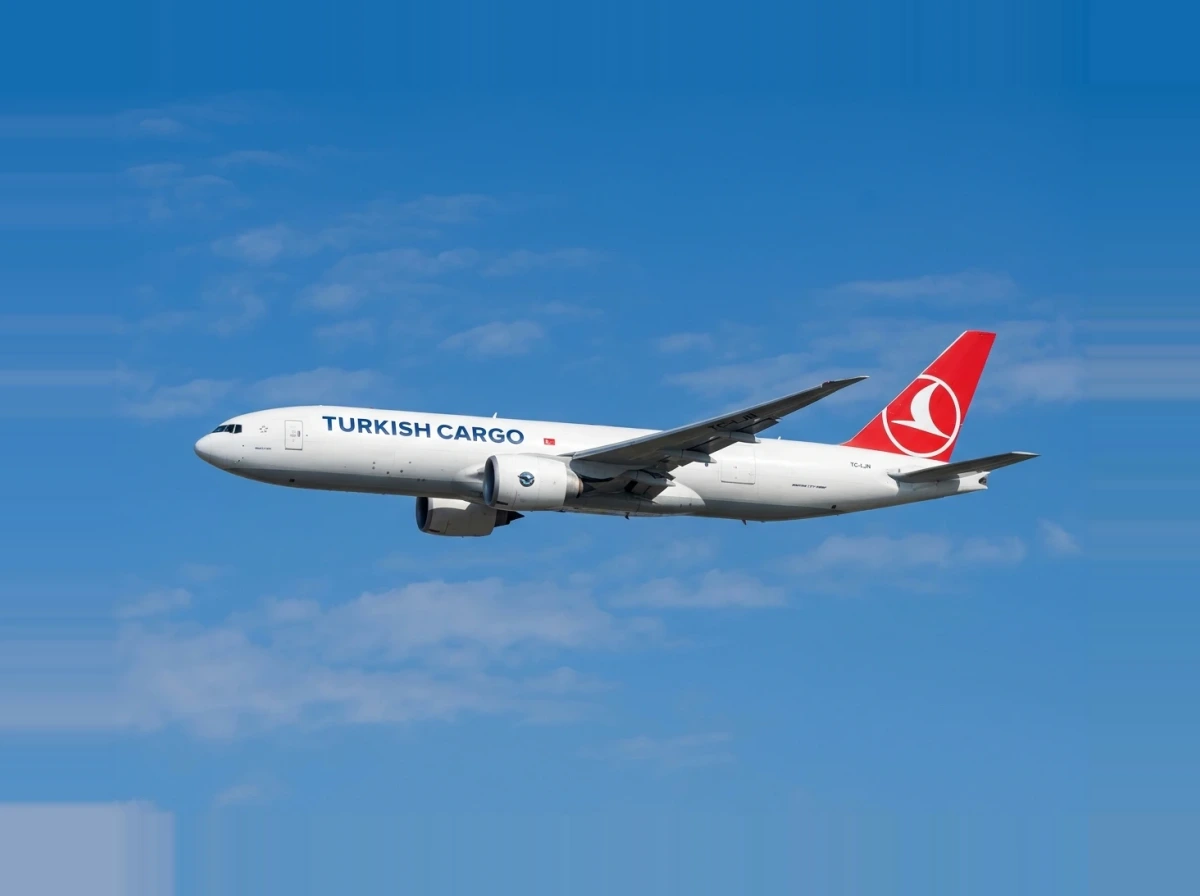
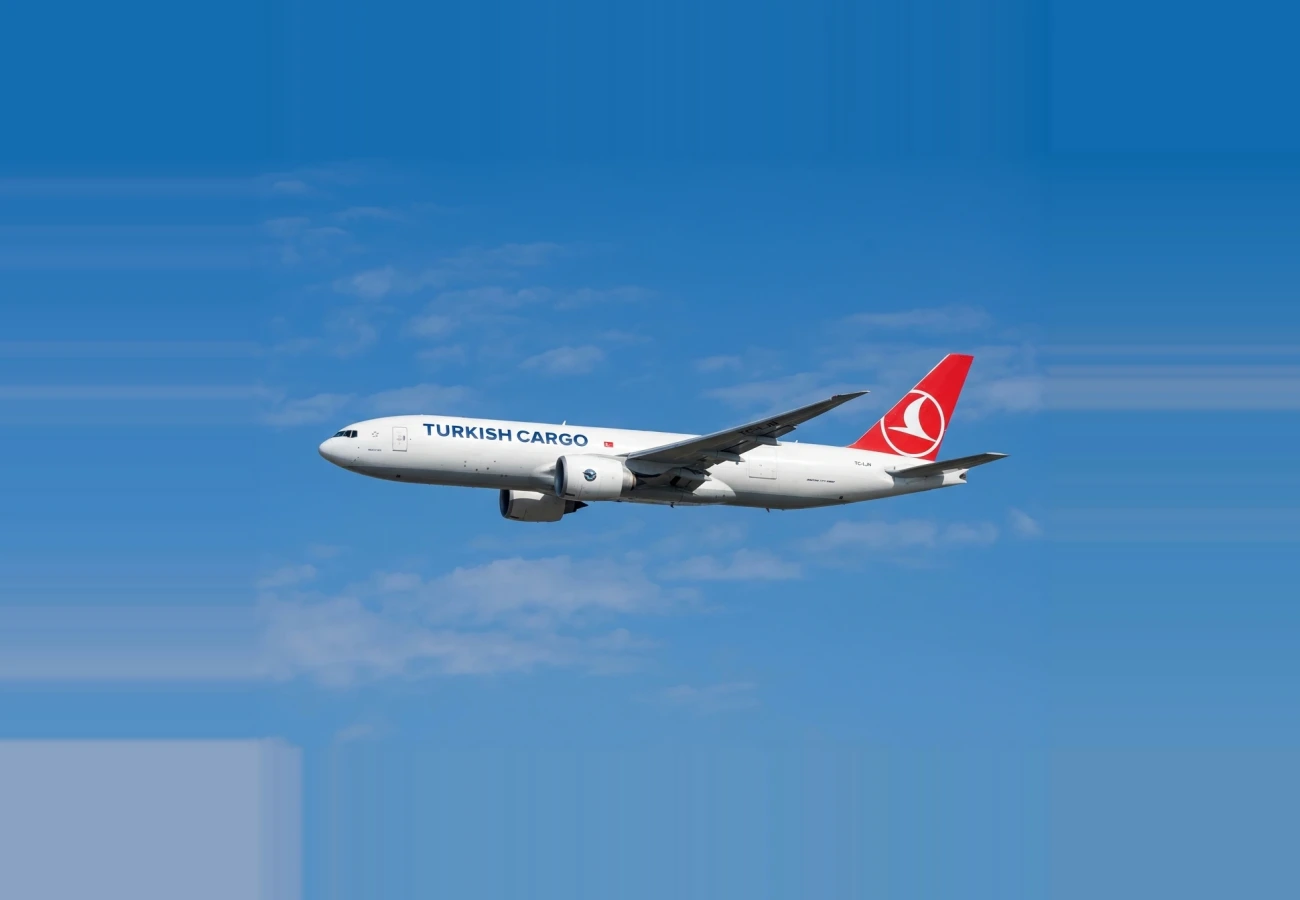
Extend background on all 8 cargo aircraft images for long distance view and bump asset cache busters to v2.6

diff --git a/index.php b/index.php
@@ -247,7 +247,7 @@
                         <img src="assets/images/element/element-14.png" alt="element">
                     </div>
                     <div class="offer-thumb cargo-thumb">
-                        <img src="assets/img/c-turk.webp" alt="Turkish Cargo" style="object-position: center center;">
+                        <img src="assets/img/c-turk.webp?v=2.6" alt="Turkish Cargo" style="object-position: center center;">
                     </div>
                     <div class="offer-content">
                         <span class="sub-title">GSA Cargo Airlines <span class="right-icon text--base ml-2" data-aos="fade-right" data-aos-duration="1200"><i class="fas fa-boxes"></i></span></span>
@@ -271,7 +271,7 @@
                         <img src="assets/images/element/element-14.png" alt="element">
                     </div>
                     <div class="offer-thumb cargo-thumb">
-                        <img src="assets/img/cargo/egypth.webp" alt="Egypt Air Cargo" style="object-position: center center;">
+                        <img src="assets/img/cargo/egypth.webp?v=2.6" alt="Egypt Air Cargo" style="object-position: center center;">
                     </div>
                     <div class="offer-content">
                         <span class="sub-title">GSA Cargo Airlines <span class="right-icon text--base ml-2" data-aos="fade-right" data-aos-duration="1200"><i class="fas fa-boxes"></i></span></span>
@@ -295,7 +295,7 @@
                         <img src="assets/images/element/element-14.png" alt="element">
                     </div>
                     <div class="offer-thumb cargo-thumb">
-                        <img src="assets/img/cargo/american.webp" alt="American Airlines Cargo" style="object-position: center center;">
+                        <img src="assets/img/cargo/american.webp?v=2.6" alt="American Airlines Cargo" style="object-position: center center;">
                     </div>
                     <div class="offer-content">
                         <span class="sub-title">GSA Cargo Airlines <span class="right-icon text--base ml-2" data-aos="fade-right" data-aos-duration="1200"><i class="fas fa-boxes"></i></span></span>
@@ -319,7 +319,7 @@
                         <img src="assets/images/element/element-14.png" alt="element">
                     </div>
                     <div class="offer-thumb cargo-thumb">
-                        <img src="assets/img/cargo/ethopian.webp" alt="Ethiopian Airlines Cargo" style="object-position: center center;">
+                        <img src="assets/img/cargo/ethopian.webp?v=2.6" alt="Ethiopian Airlines Cargo" style="object-position: center center;">
                     </div>
                     <div class="offer-content">
                         <span class="sub-title">GSA Cargo Airlines <span class="right-icon text--base ml-2" data-aos="fade-right" data-aos-duration="1200"><i class="fas fa-boxes"></i></span></span>
@@ -343,7 +343,7 @@
                         <img src="assets/images/element/element-14.png" alt="element">
                     </div>
                     <div class="offer-thumb cargo-thumb">
-                        <img src="assets/img/cargo/coyne.webp" alt="Coyne Air" style="object-position: center center;">
+                        <img src="assets/img/cargo/coyne.webp?v=2.6" alt="Coyne Air" style="object-position: center center;">
                     </div>
                     <div class="offer-content">
                         <span class="sub-title">GSA Cargo Airlines <span class="right-icon text--base ml-2" data-aos="fade-right" data-aos-duration="1200"><i class="fas fa-boxes"></i></span></span>
@@ -367,7 +367,7 @@
                         <img src="assets/images/element/element-14.png" alt="element">
                     </div>
                     <div class="offer-thumb cargo-thumb">
-                        <img src="assets/img/cargo/myf.webp" alt="MY FREIGHTER" style="object-position: center center;">
+                        <img src="assets/img/cargo/myf.webp?v=2.6" alt="MY FREIGHTER" style="object-position: center center;">
                     </div>
                     <div class="offer-content">
                         <span class="sub-title">GSA Cargo Airlines <span class="right-icon text--base ml-2" data-aos="fade-right" data-aos-duration="1200"><i class="fas fa-boxes"></i></span></span>
@@ -391,7 +391,7 @@
                         <img src="assets/images/element/element-14.png" alt="element">
                     </div>
                     <div class="offer-thumb cargo-thumb">
-                        <img src="assets/img/cargo/centu.webp" alt="Centrum Air" style="object-position: center center;">
+                        <img src="assets/img/cargo/centu.webp?v=2.6" alt="Centrum Air" style="object-position: center center;">
                     </div>
                     <div class="offer-content">
                         <span class="sub-title">GSA Cargo Airlines <span class="right-icon text--base ml-2" data-aos="fade-right" data-aos-duration="1200"><i class="fas fa-boxes"></i></span></span>
@@ -415,7 +415,7 @@
                         <img src="assets/images/element/element-14.png" alt="element">
                     </div>
                     <div class="offer-thumb cargo-thumb">
-                        <img src="assets/img/cargo/fits.webp" alt="Fits Cargo" style="object-position: center center;">
+                        <img src="assets/img/cargo/fits.webp?v=2.6" alt="Fits Cargo" style="object-position: center center;">
                     </div>
                     <div class="offer-content">
                         <span class="sub-title">GSA Cargo Airlines <span class="right-icon text--base ml-2" data-aos="fade-right" data-aos-duration="1200"><i class="fas fa-boxes"></i></span></span>

diff --git a/charter.php b/charter.php
@@ -328,7 +328,7 @@
             <div class="col-xl-4 col-lg-4 col-md-6 col-sm-6 mb-30" data-aos="fade-up" data-aos-duration="1000">
                 <div class="course-item charter-service-item">
                     <div class="course-thumb charter-thumb">
-                        <img src="assets/img/charter/cargo-heavy-oversized.jpg" alt="Heavy & Oversized Cargo Movements">
+                        <img src="assets/img/charter/cargo-heavy-oversized.jpg?v=2.6" alt="Heavy & Oversized Cargo Movements">
                         <span class="charter-badge">Outsized Heavy Lift</span>
                     </div>
                     <div class="course-content">

diff --git a/services.php b/services.php
@@ -328,7 +328,7 @@
             <div class="col-xl-4 col-lg-4 col-md-6 col-sm-6 mb-30" data-aos="fade-up" data-aos-duration="1000">
                 <div class="course-item charter-service-item">
                     <div class="course-thumb charter-thumb">
-                        <img src="assets/img/charter/cargo-heavy-oversized.jpg" alt="Heavy & Oversized Cargo Movements">
+                        <img src="assets/img/charter/cargo-heavy-oversized.jpg?v=2.6" alt="Heavy & Oversized Cargo Movements">
                         <span class="charter-badge">Outsized Heavy Lift</span>
                     </div>
                     <div class="course-content">

diff --git a/links.php b/links.php
@@ -24,8 +24,8 @@
 <!-- nice select css -->
 <link rel="stylesheet" href="assets/css/nice-select.css">
 <!-- main style css link -->
-<link rel="stylesheet" href="assets/css/style.css?v=2.5">
+<link rel="stylesheet" href="assets/css/style.css?v=2.6">
 <!-- Airline Detail Page Custom Styles -->
 <link rel="stylesheet" href="assets/css/airline-detail.css">
 <!-- Custom Responsive & Enhancements -->
-<link rel="stylesheet" href="assets/css/custom-responsive.css?v=2.5">
+<link rel="stylesheet" href="assets/css/custom-responsive.css?v=2.6">

diff --git a/scripts.php b/scripts.php
@@ -17,4 +17,4 @@
     <!-- nice select js -->
     <script src="assets/js/jquery.nice-select.js"></script>
     <!-- main -->
-    <script src="assets/js/main.js?v=2.5"></script>
+    <script src="assets/js/main.js?v=2.6"></script>
